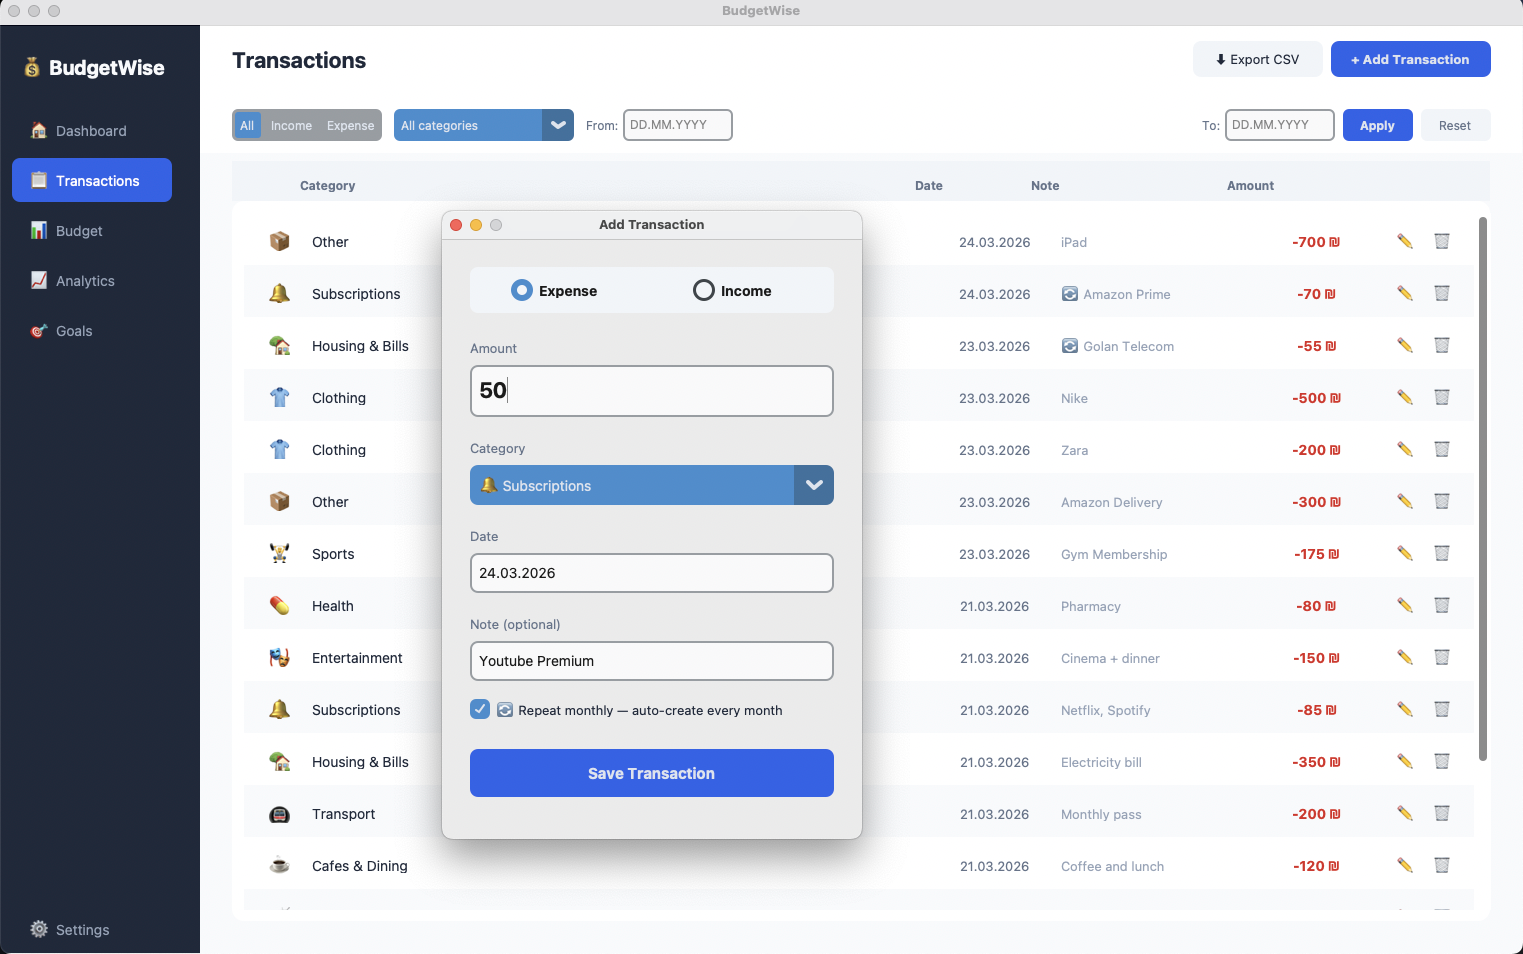
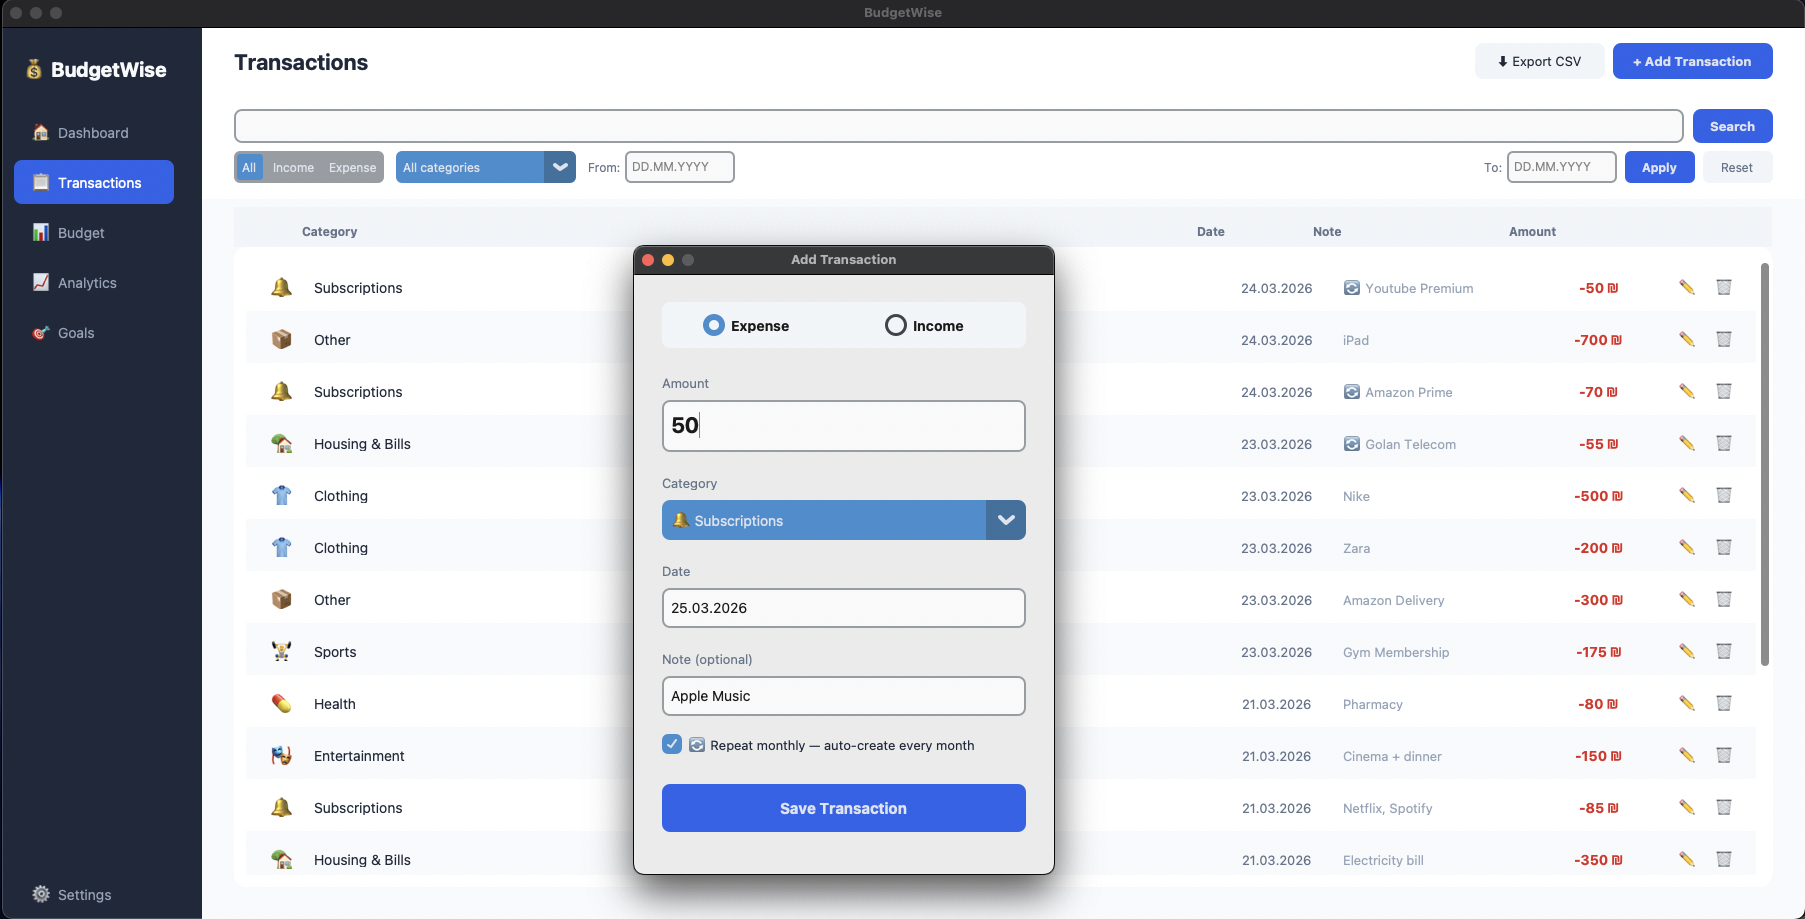
v1.5.0: search, goal deadlines, 147 tests, updated screenshots

diff --git a/utils/constants.py b/utils/constants.py
@@ -4,7 +4,7 @@ Application-wide constants — colors, sizes, UI settings.
 """
 
 APP_NAME    = "BudgetWise"
-APP_VERSION = "1.4.0"
+APP_VERSION = "1.5.0"
 
 # ── Window size ───────────────────────────────────────────────────────────────
 WINDOW_WIDTH  = 1100

diff --git a/README.md b/README.md
@@ -370,6 +370,12 @@ python -m PyInstaller --noconfirm BudgetWise.spec
 
 ## Changelog
 
+### v1.5.0 (March 2026)
+- ✅ Search transactions by category and note
+- ✅ Goal deadlines — days left and needed per month
+- ✅ 147 automated tests — goal_service fully covered
+- ✅ Fixed CI — matplotlib added to GitHub Actions
+
 ### v1.4.0 (March 2026)
 - ✅ Recurring transactions — auto-create monthly with smart date handling
 - ✅ Repeat monthly checkbox in Add Transaction dialog
